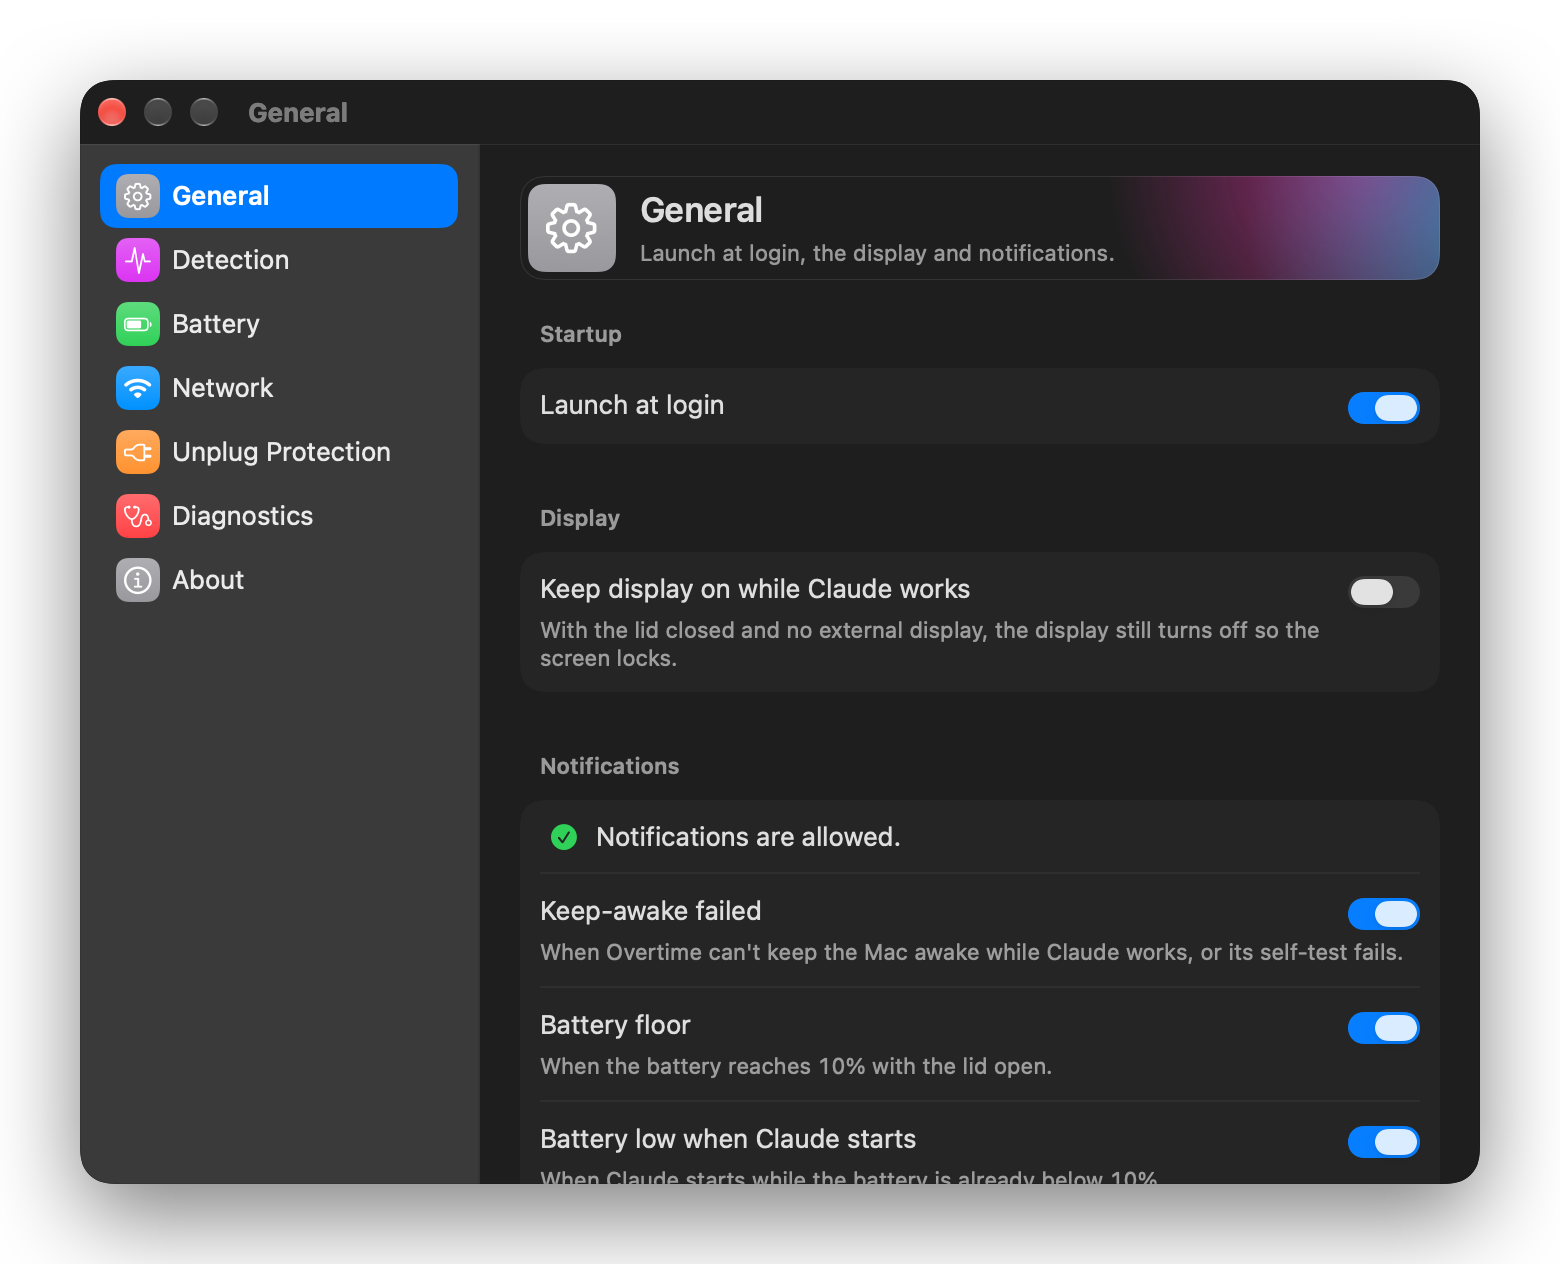
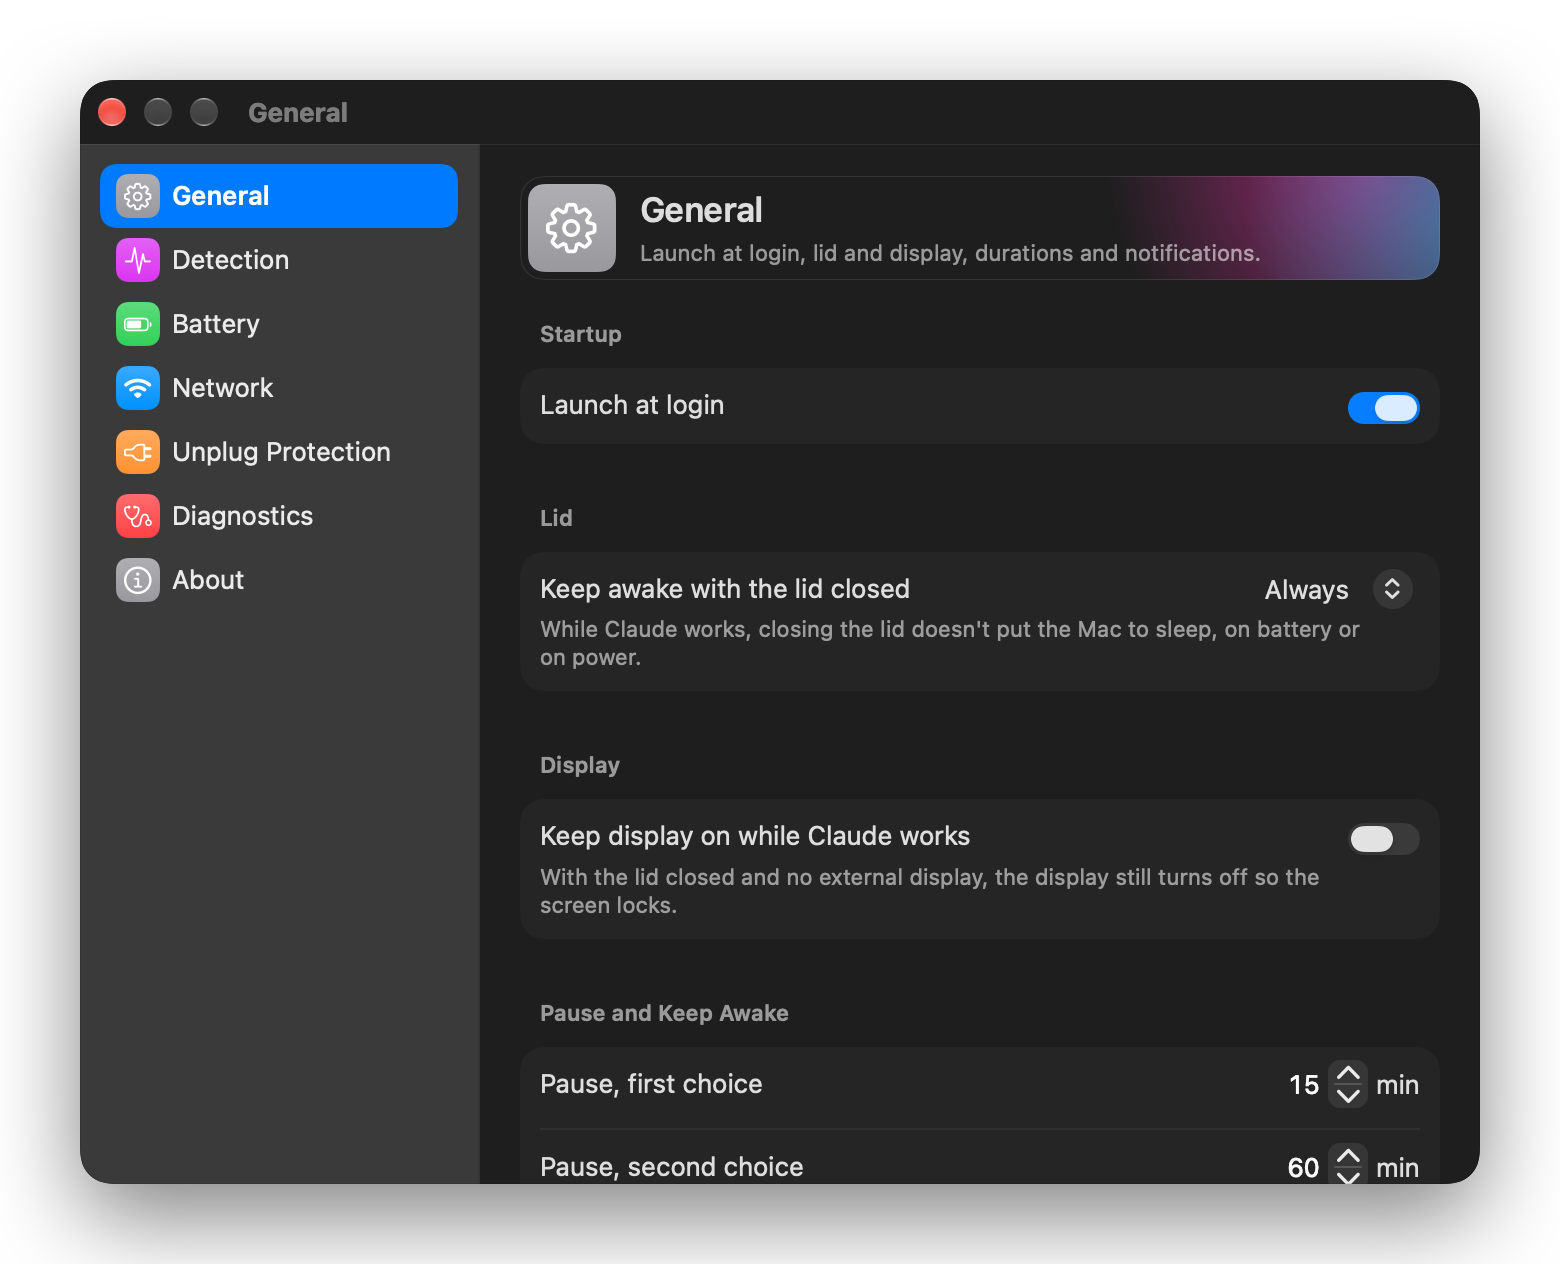
Refresh the General pane screenshot
The General pane image shows the new Lid section; the Battery and Unplug Protection images render unchanged. The panel image is refreshed too: it differs from the committed one only in its footer, which now reads Overtime 1.0.2.

diff --git a/README.md b/README.md
@@ -134,7 +134,7 @@ Settings has seven panes, in this order:
 - **About:** Version, updates, acknowledgements and uninstall.
 
 <p align="center">
-  <img src="docs/images/settings-general-dark.png" width="780" alt="Overtime Settings on the General pane, selected in the sidebar, with Launch at login on and the notification switches">
+  <img src="docs/images/settings-general-dark.png" width="780" alt="Overtime Settings on the General pane, selected in the sidebar, with Launch at login on, Keep awake with the lid closed set to Always, Keep display on while Claude works off, and the Pause and Keep Awake section with the Pause choices at 15 and 60 minutes">
 </p>
 
 ## How it works
